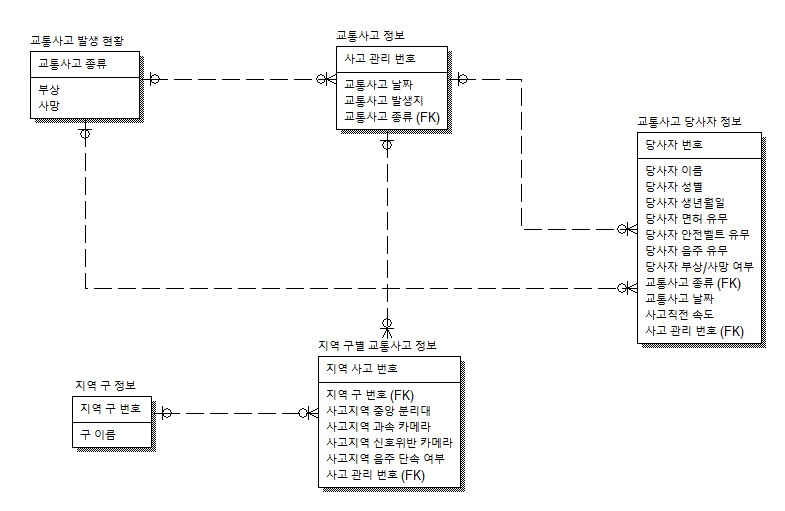
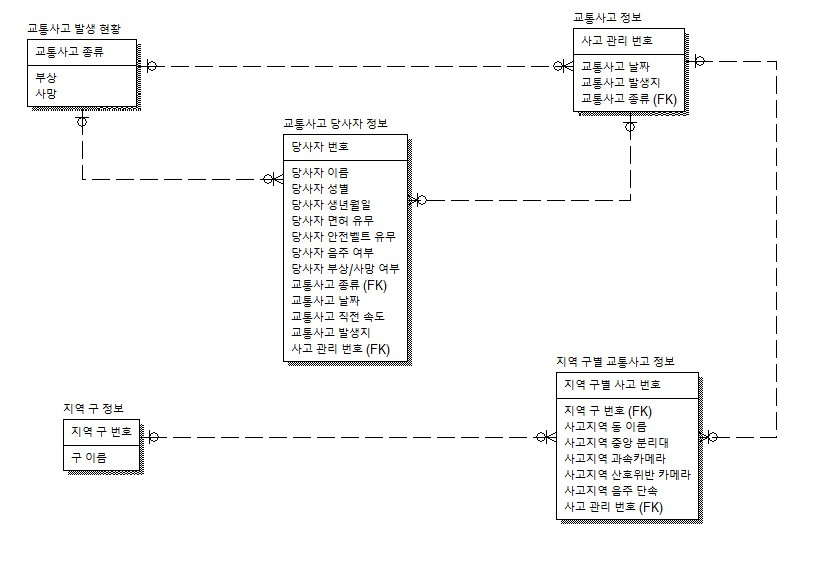
feat : db_table 모델링 사진

diff --git a/DB_csv/eng_name.md b/DB_csv/eng_name.md
@@ -10,10 +10,10 @@
 
 - 교통사고 정보 (테이블 이름) : trfacd_info
       
-      교통사고 관리 번호 : trfacd_mngno
+      사고 관리 번호 : trfacd_mngno
       교통사고 날짜 :  trfacd_date
-      교통사고 종류 : trfacd_type
       교통사고 발생지 : trfacd_loc
+      교통사고 종류 : trfacd_type
 
 - 교통사고 당사자 (테이블 이름) : trfacd_prt
 
@@ -33,16 +33,17 @@
 
 - 지역 구 테이블(테이블 이름) : area
 
-      지역 번호 : anum
+      지역 구 번호 : anum
       구 이름 :	aname
 
-- 지역별 교통사고 (테이블 이름) : area_trfacd
+- 지역 구별 교통사고 (테이블 이름) : area_trfacd
 
       지역 사고 번호 : atnum
-      지역 번호 : anum
-      동 이름 :	dong_name
+      지역 구 번호 : anum
+      사고지역 동 이름 : dong_name
       사고지역 중앙 분리대 : atmiddle
-      사고 지역 과속카메라 여부 : atcamera
-      사고 지역 음주 단속 여부 : atbrtyCheck
+      사고지역 과속카메라 여부 : atscamera
+      사고지역 신호위반 카메라 : atsvcamera
+      사고지역 음주 단속 여부 : atbrtyCheck
       사고 관리 번호 : trfacd_mngno
 
